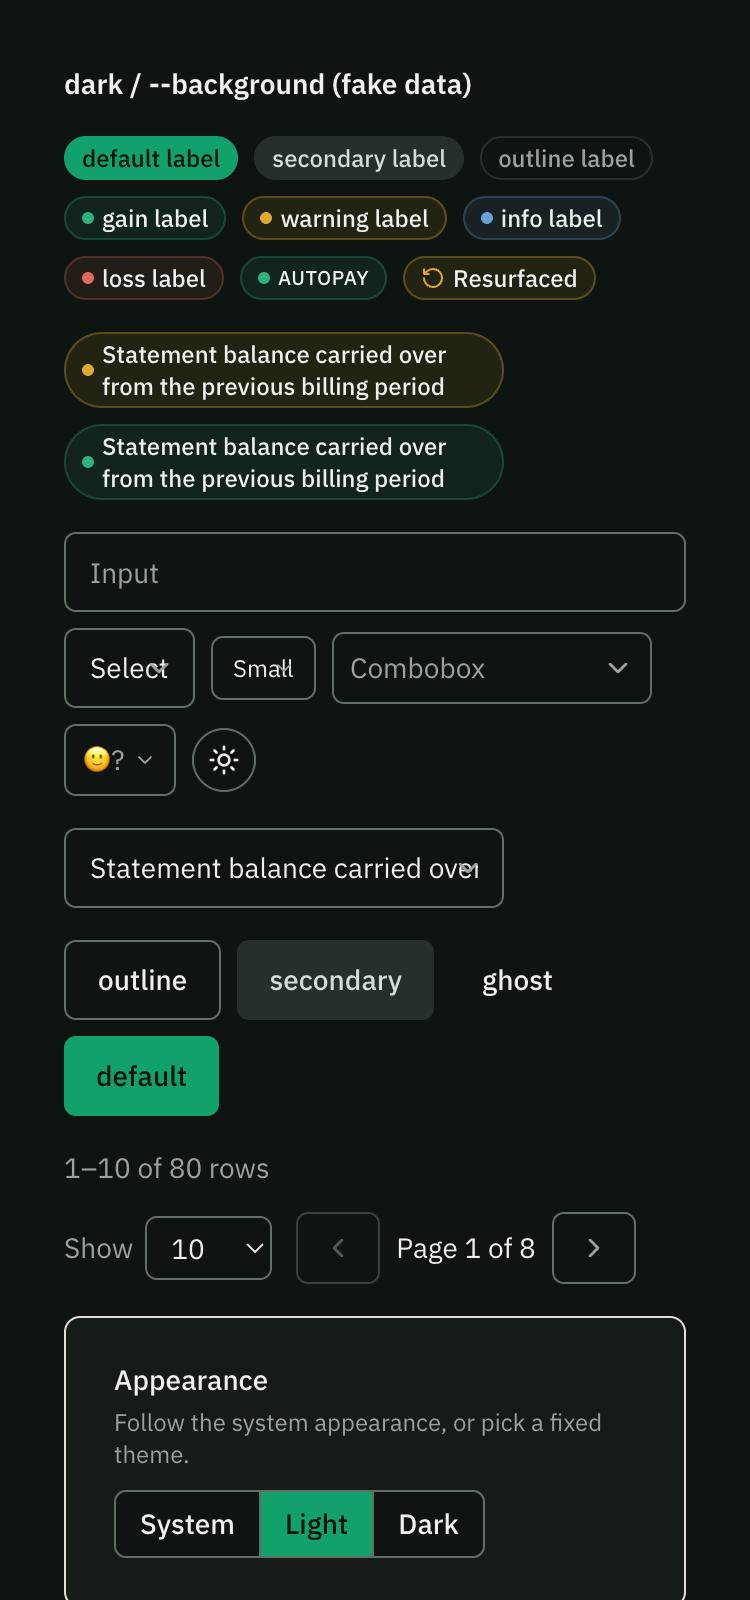
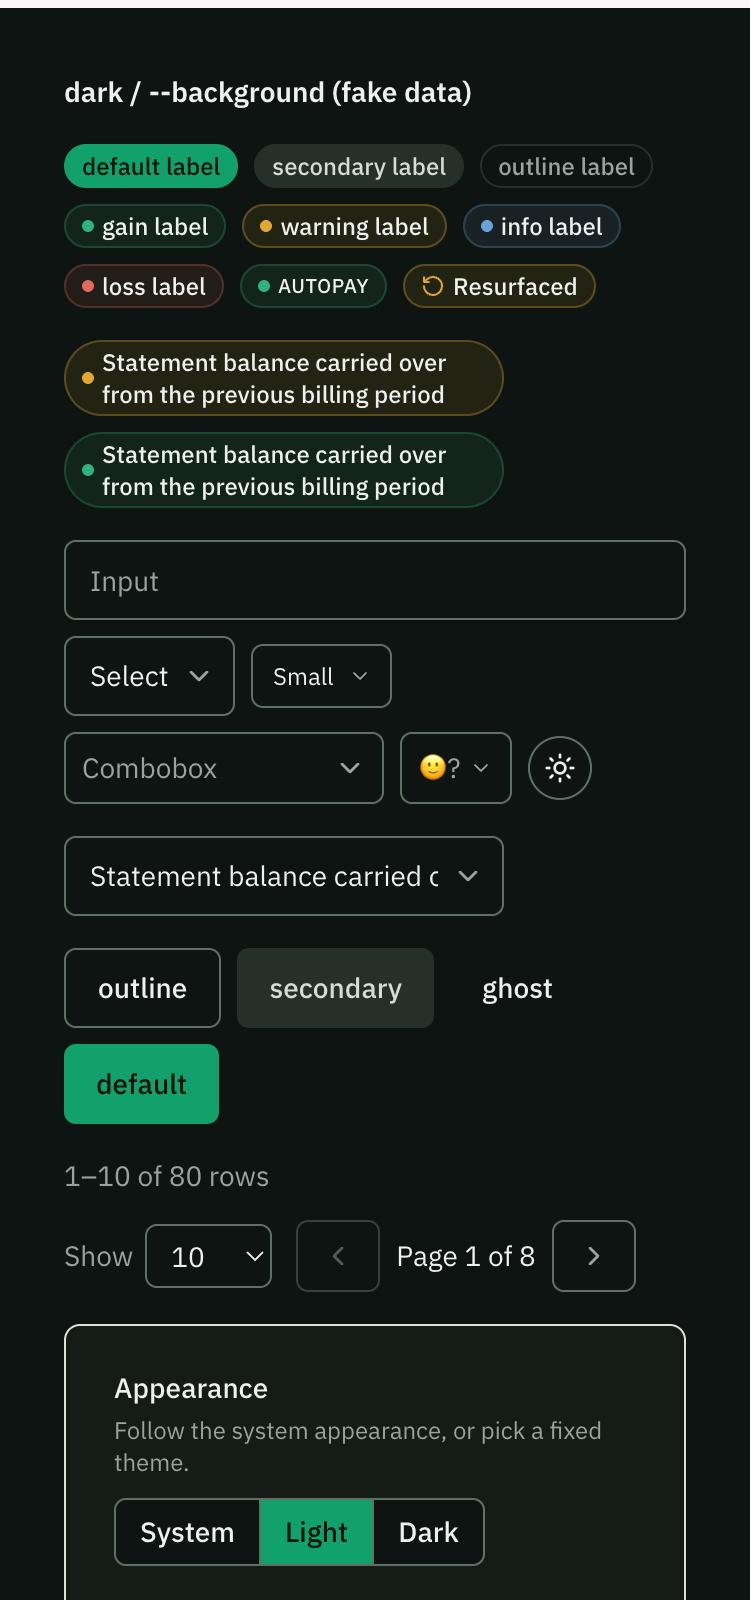
personal-cfo-4d8.35: evidence rebound to the head that merged main: narrow Light and Dark retaken with the NativeSelect fix, audit and status-fit re-run

diff --git a/docs/design-system/evidence/personal-cfo-4d8.35/README.md b/docs/design-system/evidence/personal-cfo-4d8.35/README.md
@@ -192,6 +192,9 @@ rule), and a VoiceOver pass.
 | `narrow-light.jpg`, `narrow-dark.jpg` | the same at a **375px** viewport: long labels wrap, nothing overflows |
 
 All eight were retaken at option A+ on this head (Chromium 152). The status-fit screenshots are listed with their section above.
+The two narrow shots also show the `NativeSelect` fix: the long option ("Statement balance carried o…") is clipped
+clear of the chevron, with no text under the arrow, in both themes. The audit (PASS 316 · FAIL 0 · info 124) and all 13
+status-fit rows were re-run on the head that merged `main` (including the shared disclosure, `personal-cfo-4d8.38`).
 
 ## What this evidence does not show
 
